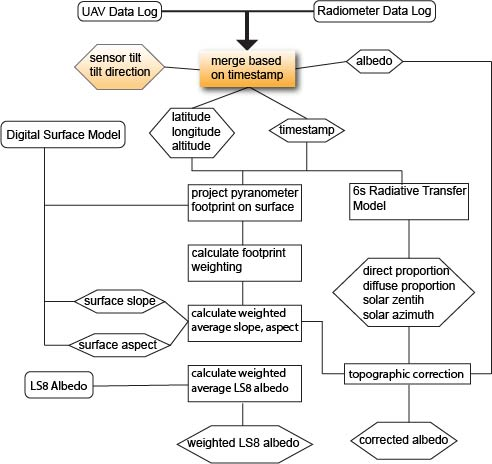
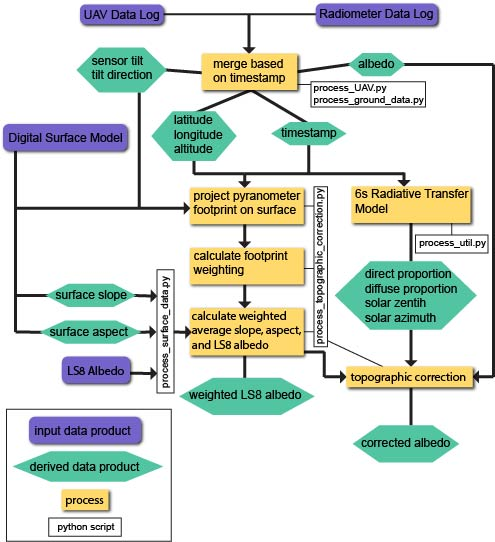
no message

diff --git a/README.md b/README.md
@@ -21,9 +21,30 @@ UAV-Albedo is a Python library for processing albedo data collected from an upwa
 	* aspect
 	* note: all terrain models must have the same geographical extent and pixel size
 
+## Program Structure
+# There are 6 python programs that make up the core of the data processing
+
+# Class process_UAV
+This class contains the code required to process UAV albedo data and convert it into a .csv file that contains all required fields for the topographic correction and comparison to external gridded albedo data.
+
+# Class process_ground_data
+This class is similar to process_UAV in that it preprocesses the albedo/carrying platform data for ingestion into the topographic correction and comparison processes. This class is tailored to the research outlined in Mullen et al., 2021 to merge and preprocess ground validation data.
+
+# Class process_surface_data
+This class is used in the creation of a Surface_Data object containing all required surface raster data (elevation, slope, aspect, gridded albedo product for comparison (in this case LS8)) for topographic correction and comparison to the external product.
+
+# Class process_topographic_correction
+This class is used in the creation of a topographic correction object. The topographic correction object contains calculated surface parameters, uncorrected albedo, corrected albedo, and the albedo value derived from the external product used for comparison. Creation of an instance of this object requires a surface data object and a series (single line from dataframe) or dictionary corresponding to a single albedo measurement.
+
+# process_main
+This python script handles all processing of the UAV data from a higher level. All data paths and user-defined parameters are set in this file. This file allows for UAV data pre-processing, topographic correction, as well as footprint sensitivity analyses.
+
+# process_util
+This python script contains methods used in multiple other scripts within the project.
+
 ## Workflow
 
-![image](file://workflow.jpg)
+![image](workflow.jpg)
 
 ## Usage
 
